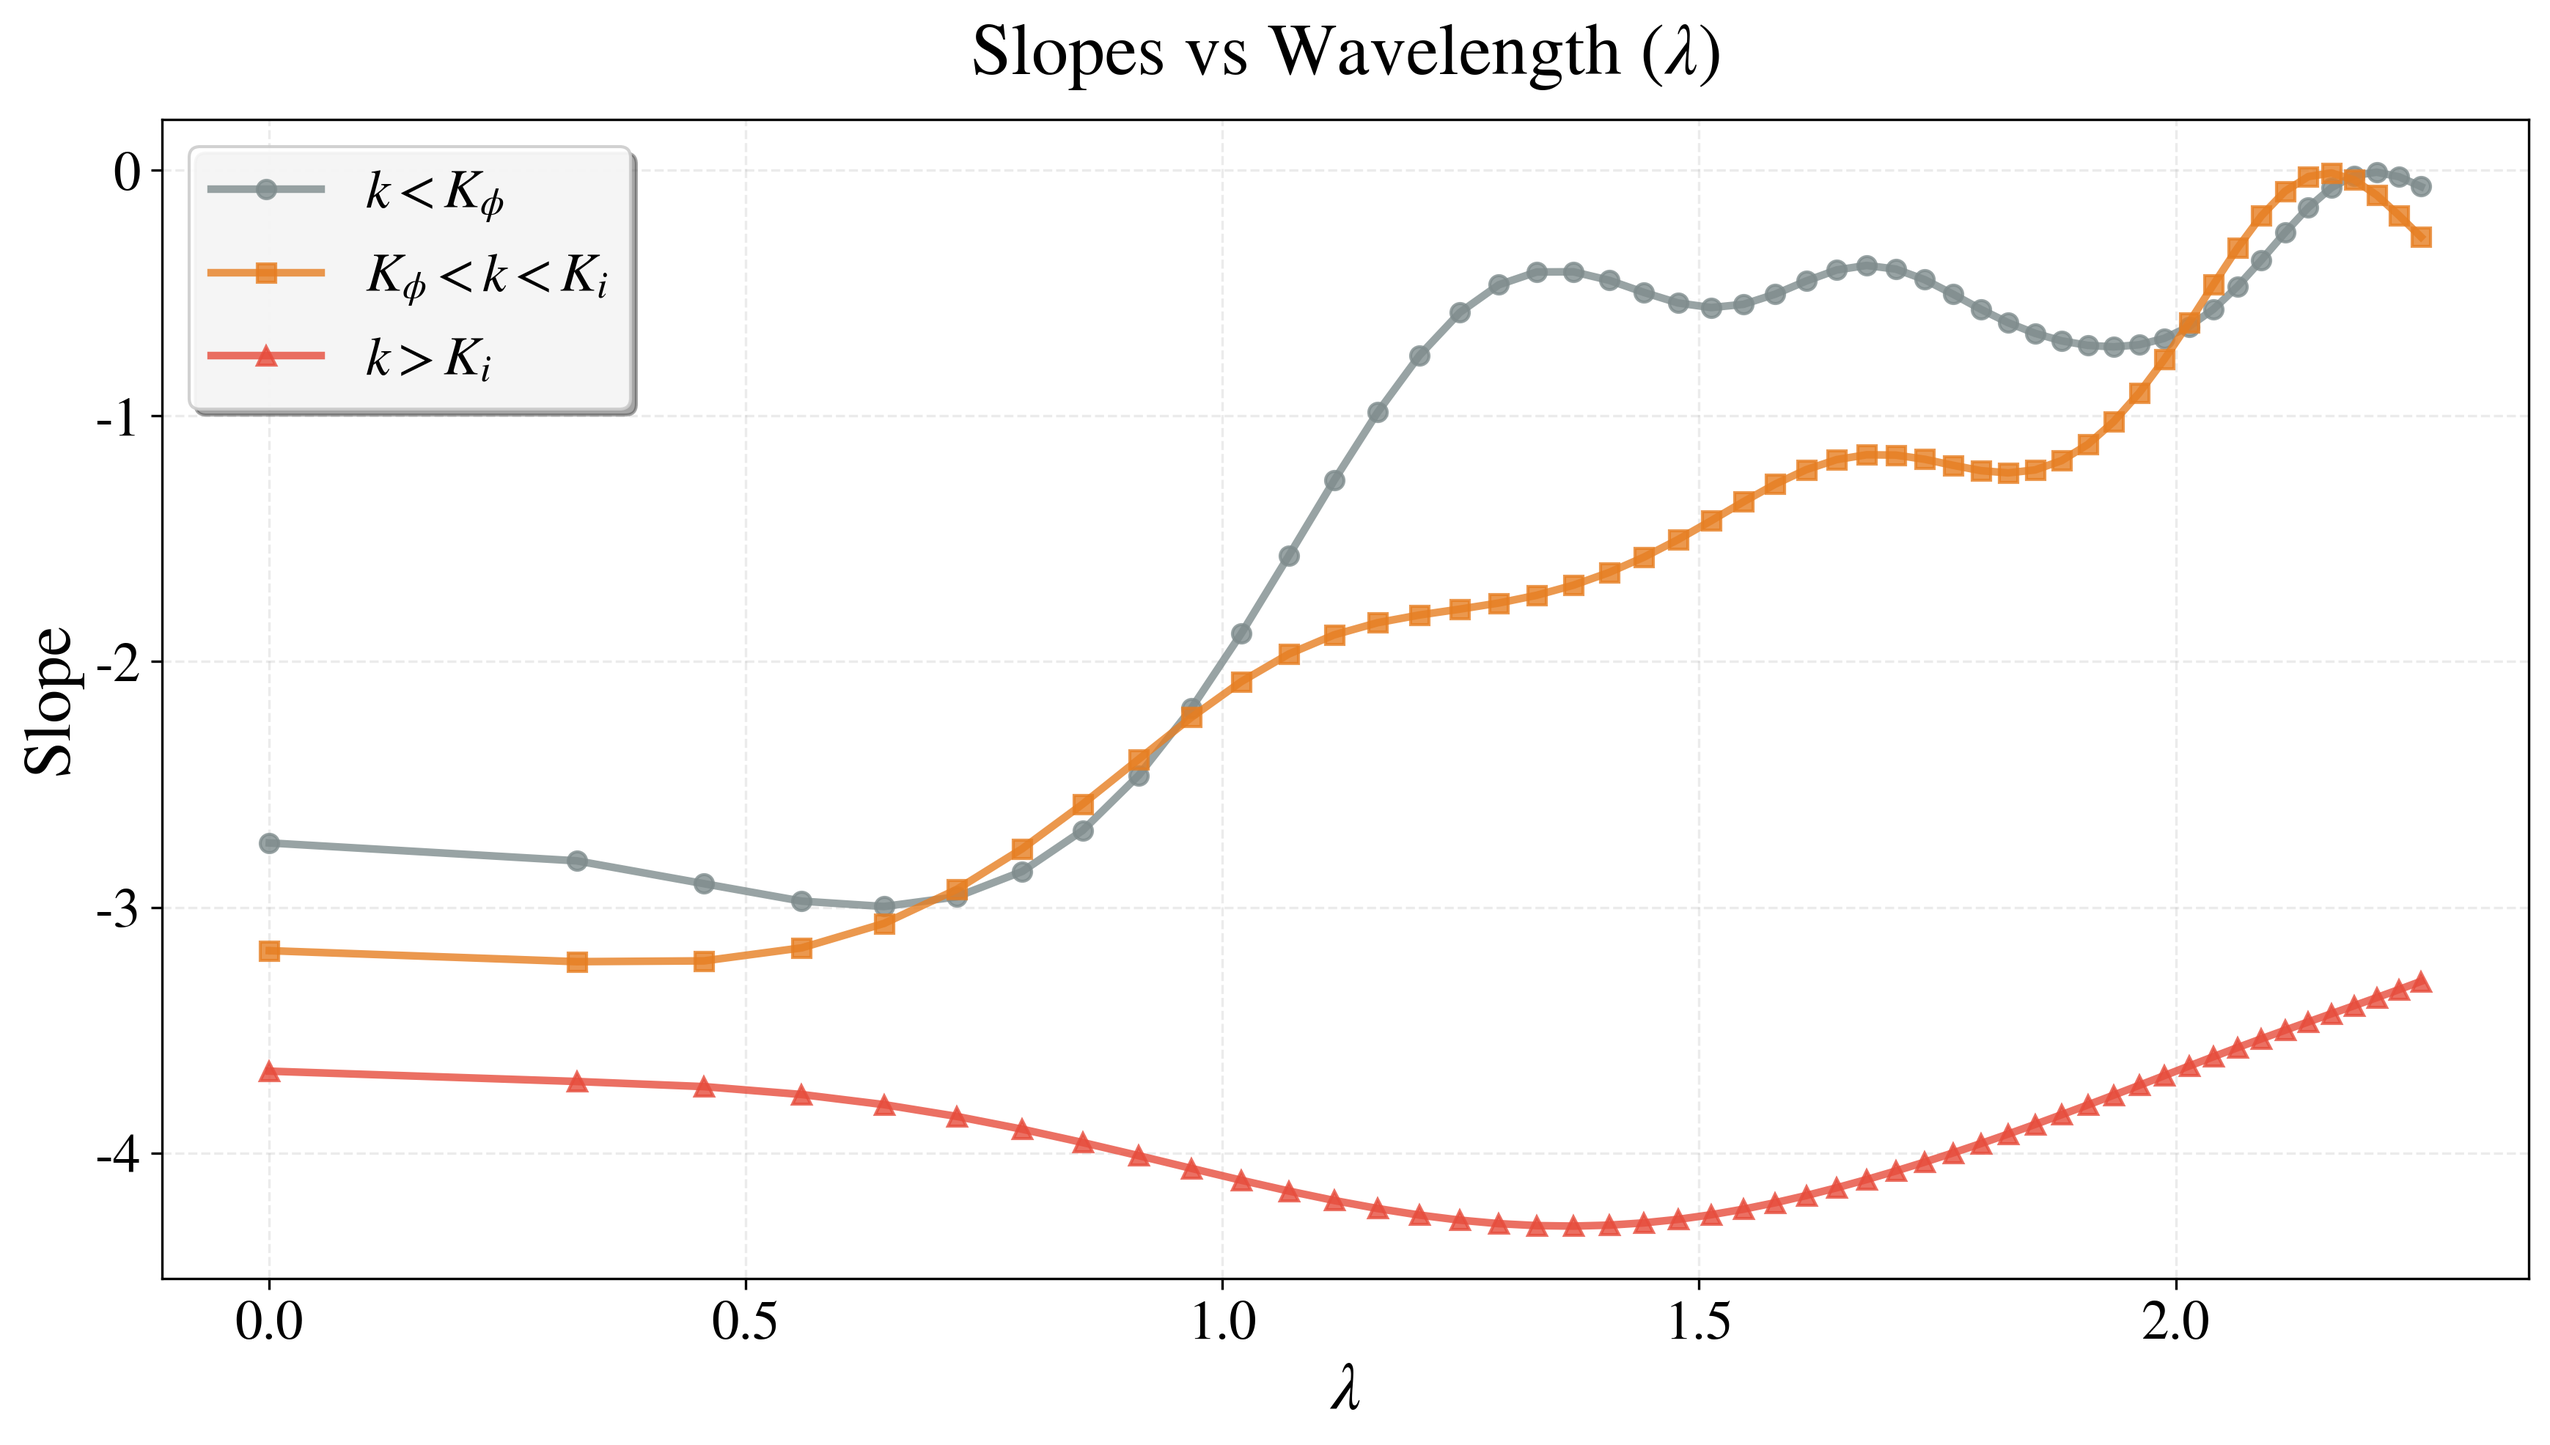
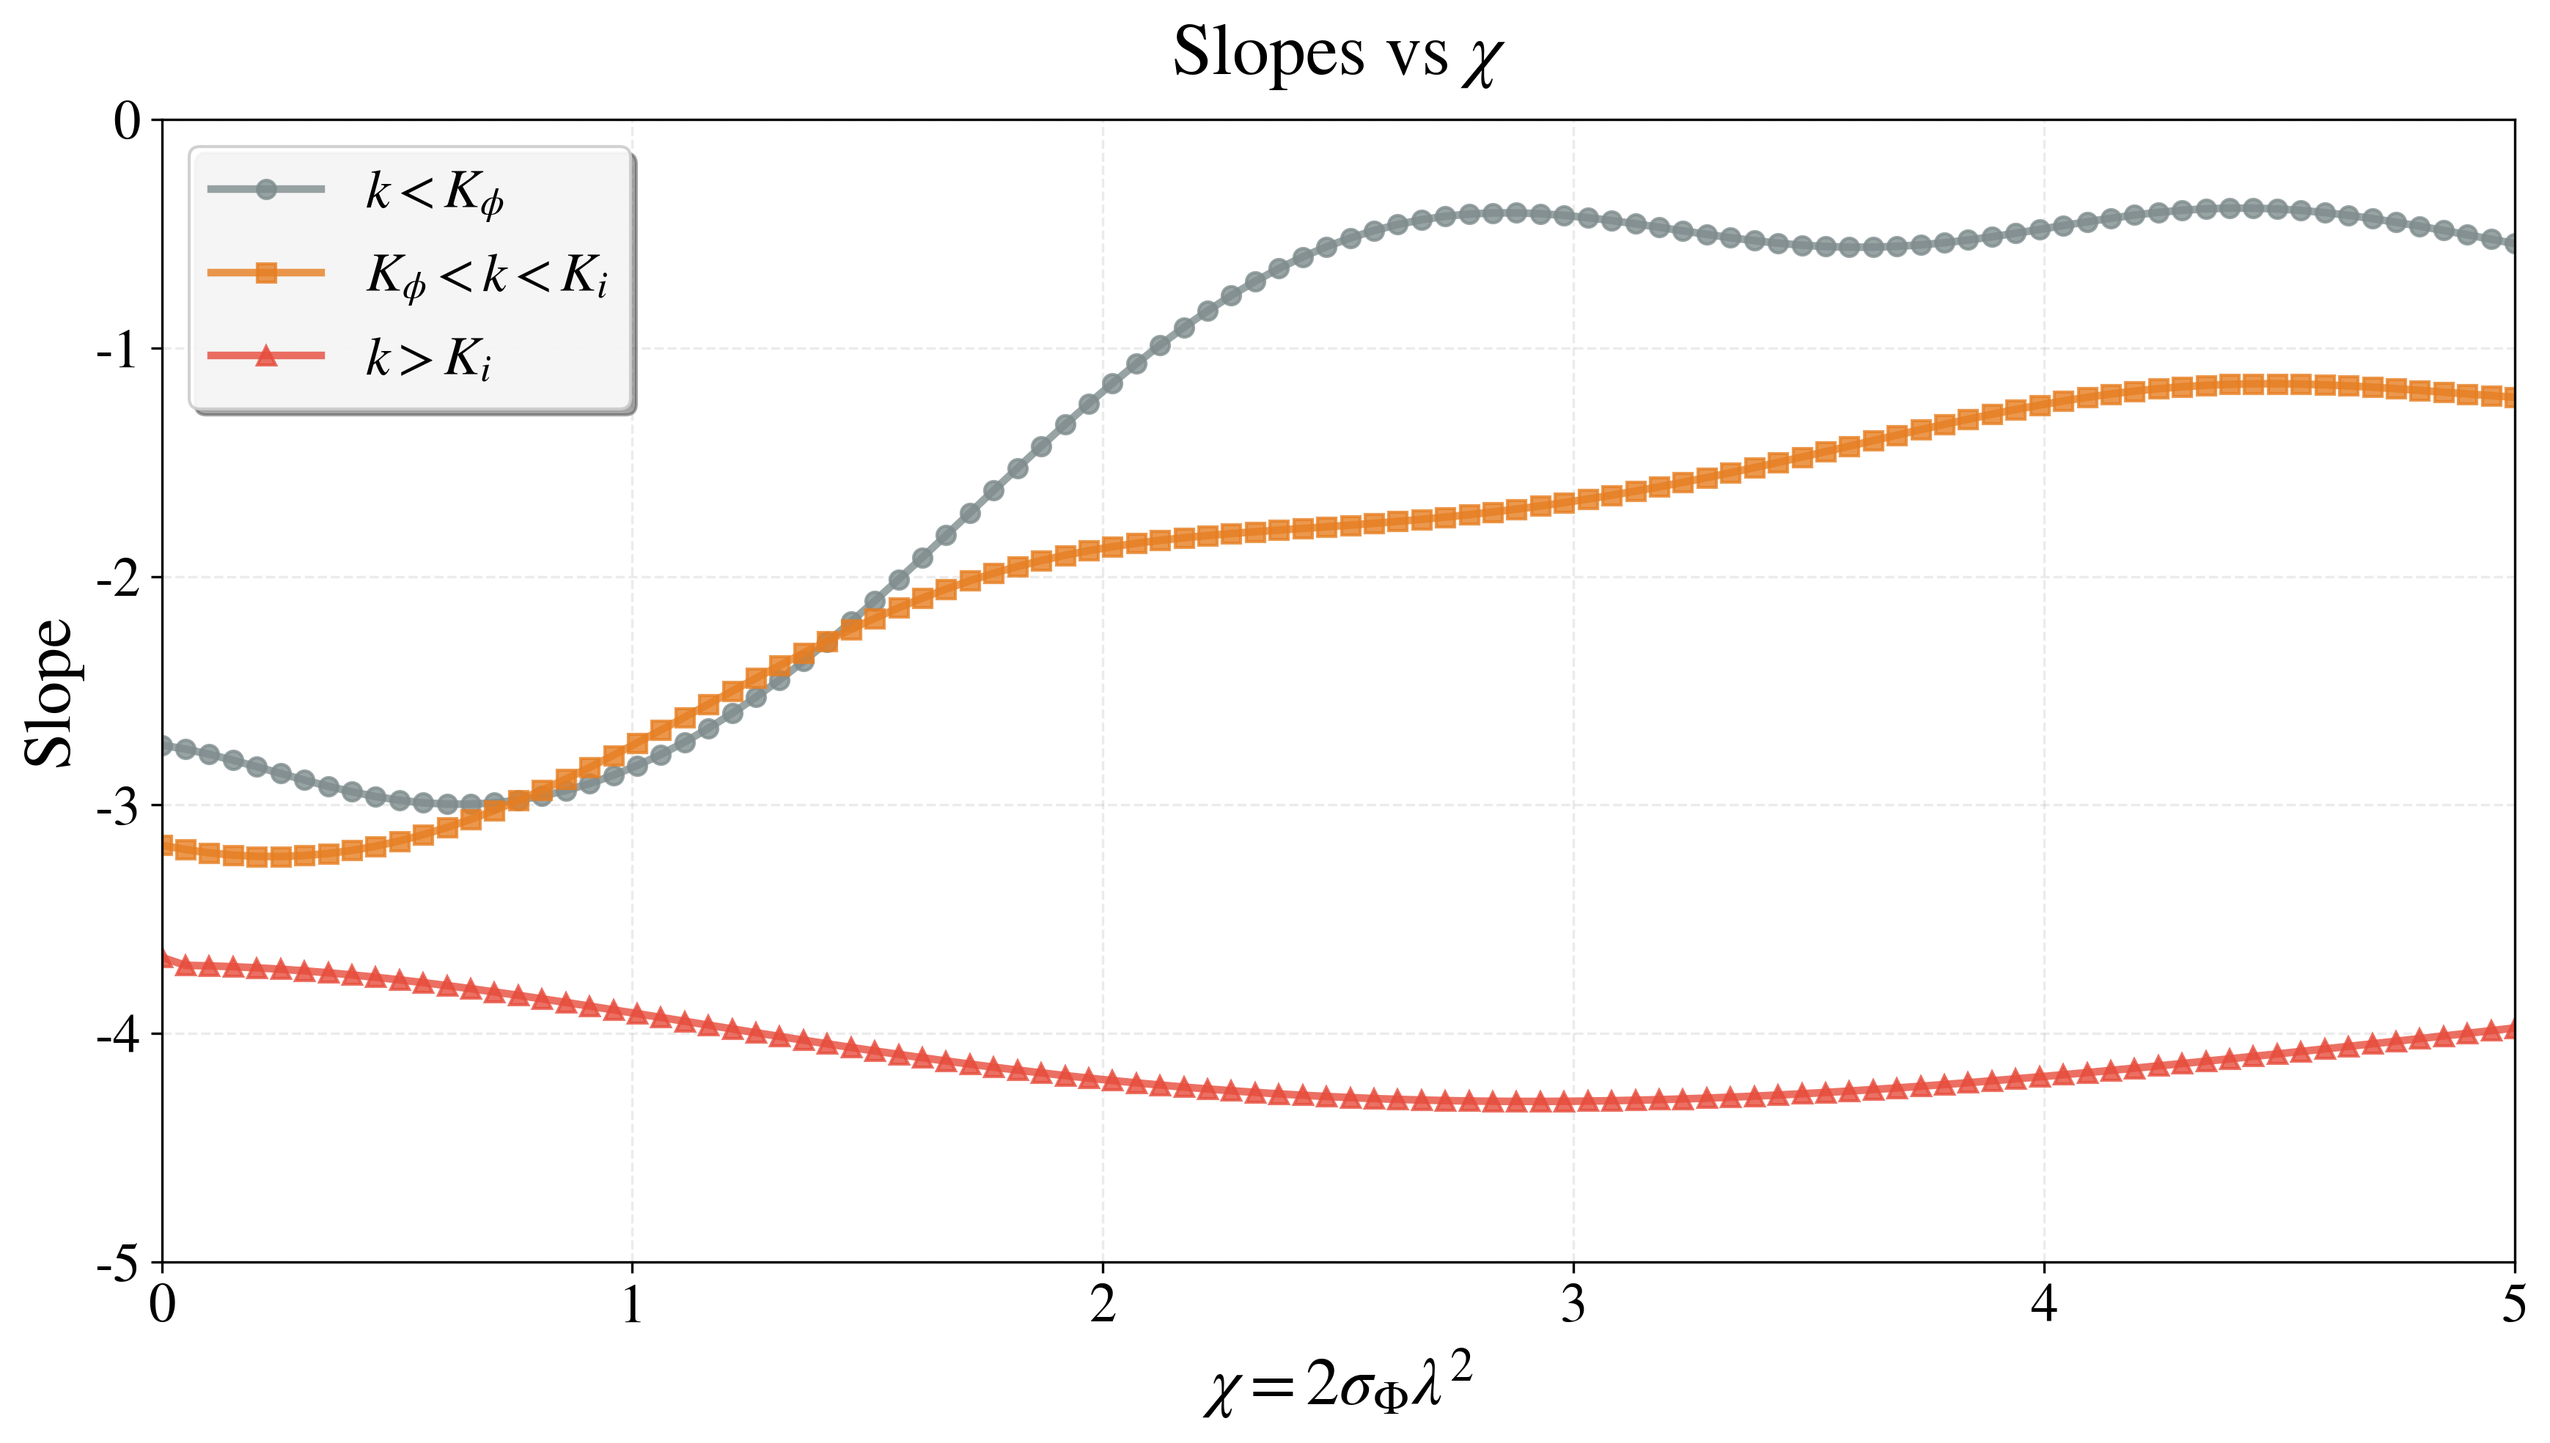
Slope vs chi (instead lam)

diff --git a/compare_measures/directional_spectrum/rph_ri.py b/compare_measures/directional_spectrum/rph_ri.py
@@ -316,8 +316,11 @@ def fit_segment(ax, kc, Pdir, kmin, kmax, color, label):
     ax.loglog(kk, np.exp(b)*kk**a, lw=3.5, color=color, alpha=0.95, label=f"{label} {a:.2f}")
     return a
 
-def save_slopes_to_csv(lam, sP, sM, sH, csv_path=None):
-    """Save slope values to CSV file, appending for different lambda values."""
+def save_slopes_to_csv(lam, sigma_RM, sP, sM, sH, csv_path=None):
+    """Save slope values to CSV file, appending for different chi values.
+    
+    chi = 2 * sigma_RM * lambda^2
+    """
     if csv_path is None:
         script_dir = Path(__file__).parent
         csv_path = script_dir / "slopes_vs_lambda.csv"
@@ -325,15 +328,18 @@ def save_slopes_to_csv(lam, sP, sM, sH, csv_path=None):
     csv_path = Path(csv_path)
     file_exists = csv_path.exists()
     
+    # Calculate chi = 2 * sigma_RM * lambda^2
+    chi = 2.0 * sigma_RM * (lam ** 2)
+    
     # Write or append to CSV
     with open(csv_path, 'a', newline='') as f:
         writer = csv.writer(f)
         # Write header if file is new
         if not file_exists:
-            writer.writerow(['lambda', 'slope_k_lt_K_phi', 'slope_K_phi_lt_k_lt_K_i', 'slope_k_gt_K_i'])
+            writer.writerow(['chi', 'slope_k_lt_K_phi', 'slope_K_phi_lt_k_lt_K_i', 'slope_k_gt_K_i'])
         # Write data row
         writer.writerow([
-            lam,
+            chi,
             sP if sP is not None else '',
             sM if sM is not None else '',
             sH if sH is not None else ''
@@ -459,8 +465,8 @@ def plot_spectrum(lam, save_path=None, show_plots=True,
     plt.tight_layout()
     plt.subplots_adjust(top=0.88)
     
-    # Save slopes to CSV
-    save_slopes_to_csv(lam, sP, sM, sH, csv_path)
+    # Save slopes to CSV (using chi = 2*sigma_RM*lambda^2)
+    save_slopes_to_csv(lam, sigma_RM, sP, sM, sH, csv_path)
     
     if save_path is not None:
         plt.savefig(save_path, dpi=300, bbox_inches='tight')
@@ -549,4 +555,4 @@ if __name__ == "__main__":
     print("=" * 70)
     print()
     
-    generate_chi_animation(chi_min=0.0, chi_max=8.0, n_frames=50, show_progress=True)
+    generate_chi_animation(chi_min=0.0, chi_max=5.0, n_frames=100, show_progress=True)

diff --git a/compare_measures/directional_spectrum/plot_slopes_vs_lambda.py b/compare_measures/directional_spectrum/plot_slopes_vs_lambda.py
@@ -20,7 +20,9 @@ mpl.rcParams.update({
 
 def plot_slopes_vs_lambda(csv_path=None, save_path="slopes_vs_lambda.png", show_plot=True, 
                           plot_slopes=['k_lt_K_phi', 'K_phi_lt_k_lt_K_i', 'k_gt_K_i']):
-    """Plot slopes as a function of lambda from the CSV file.
+    """Plot slopes as a function of chi from the CSV file.
+    
+    chi = 2 * sigma_RM * lambda^2
     
     Parameters:
     -----------
@@ -49,11 +51,11 @@ def plot_slopes_vs_lambda(csv_path=None, save_path="slopes_vs_lambda.png", show_
     # Replace empty strings with NaN
     df = df.replace('', np.nan)
     
-    # Sort by lambda
-    df = df.sort_values('lambda')
+    # Sort by chi
+    df = df.sort_values('chi')
     
     # Extract data - handle each slope separately to filter out NaN values
-    lambda_vals_all = df['lambda'].values
+    chi_vals_all = df['chi'].values
     
     # Create figure
     fig, ax = plt.subplots(figsize=(12, 7))
@@ -71,16 +73,18 @@ def plot_slopes_vs_lambda(csv_path=None, save_path="slopes_vs_lambda.png", show_
             # Filter out rows where this specific slope is NaN/empty
             mask = df[col_name].notna()
             if mask.sum() > 0:  # Only plot if there's at least one valid data point
-                lambda_vals = df.loc[mask, 'lambda'].values
+                chi_vals = df.loc[mask, 'chi'].values
                 data = df.loc[mask, col_name].values
-                ax.plot(lambda_vals, data, marker_style, color=color, lw=2.5, 
+                ax.plot(chi_vals, data, marker_style, color=color, lw=2.5, 
                        markersize=6, alpha=0.8, label=label)
     
-    ax.set_xlabel(r'$\lambda$', fontsize=22)
+    ax.set_xlabel(r'$\chi = 2\sigma_\Phi\lambda^2$', fontsize=22)
     ax.set_ylabel('Slope', fontsize=22)
-    ax.set_title('Slopes vs Wavelength ($\lambda$)', fontsize=24, pad=15)
+    ax.set_title('Slopes vs $\chi$', fontsize=24, pad=15)
     ax.grid(True, which='both', alpha=0.25, linestyle='--', linewidth=0.8)
     ax.legend(frameon=True, fancybox=True, shadow=True, framealpha=0.9, loc='best')
+    plt.xlim(0, 5)
+    plt.ylim(-5, 0)
     
     plt.tight_layout()
     
